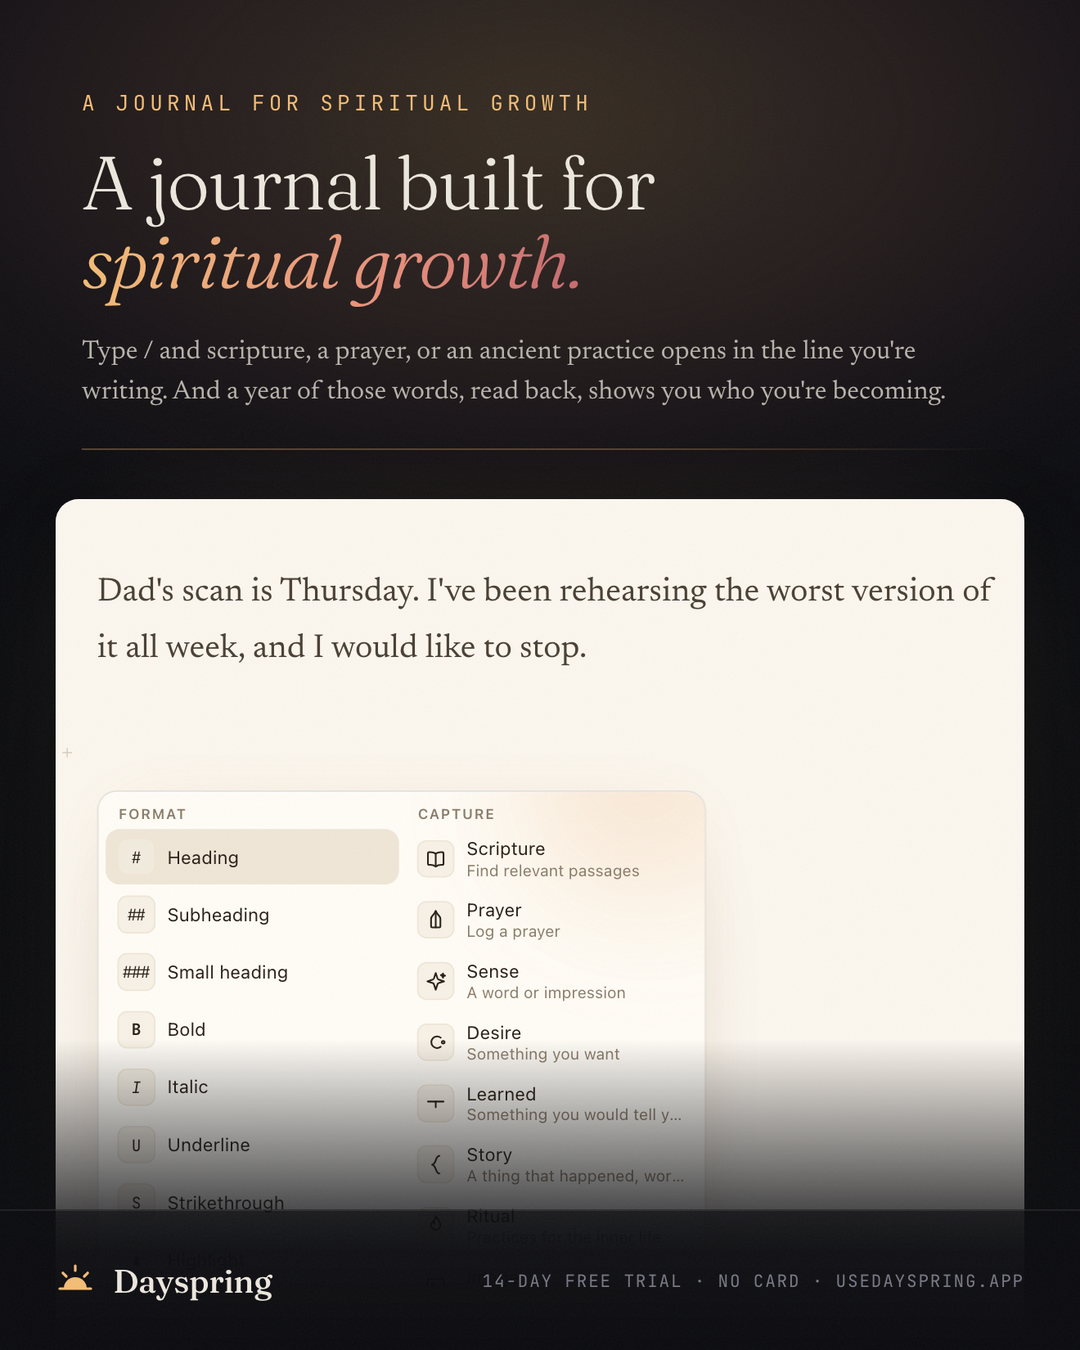
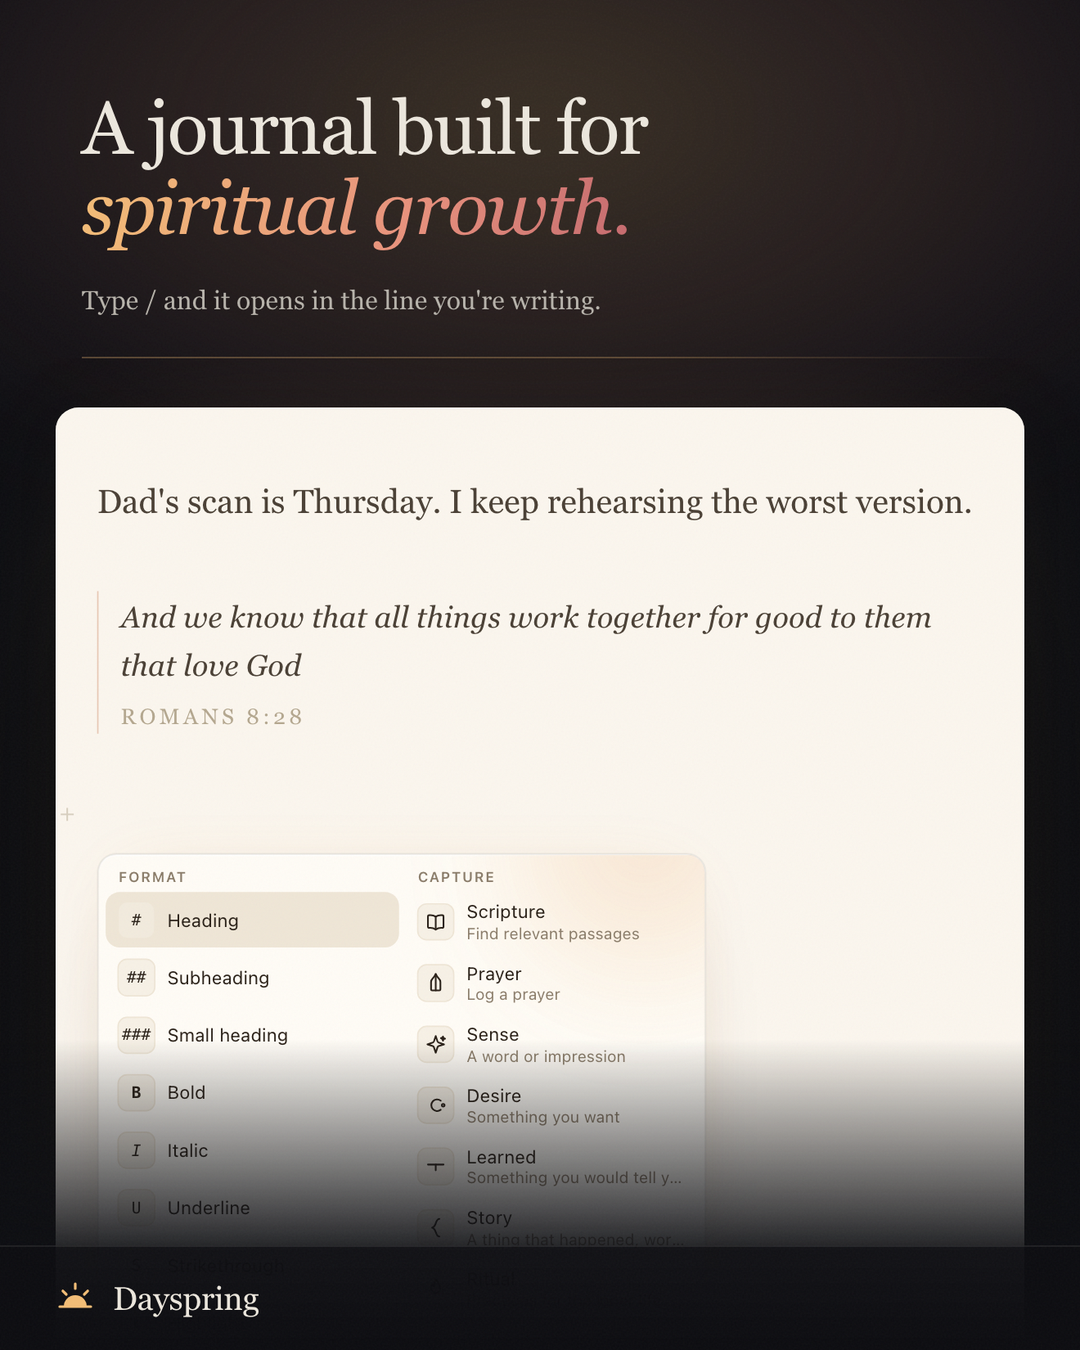
Show the verse the sentence reached for, and say less around it
Three changes, all in the same direction: more picture, fewer words.

**The scripture block is in the frame now.** The palette alone showed the
menu; it never showed what picking something off it does. So the entry
now carries a passage set in the page, word for word, with the caret and
the open menu under it — one frame holding the whole gesture: the line,
the verse it reached for, and the door that put it there. That costs
80pt of window height, which is why the shot is 920 and the sentence
above the block is one line exactly. A word longer and it wraps, leaving
"it." orphaned on a line of its own.

**The eyebrow is gone.** It read "A journal for spiritual growth" over a
headline reading "A journal built for spiritual growth" — the same
sentence twice, in two sizes, stacked. The ads need that line because
their headline is a hook and something has to state the category first.
Here the headline already is the category.

**The offer line is gone.** "14-day free trial · no card ·
usedayspring.app" was three facts in uppercase mono across the foot of
an image whose argument is the picture. Every one of them is a field
Meta gives an ad of its own, rendered in the reader's own UI where they
are read as terms rather than as decoration. They belong in the body
copy. The footer keeps the mark and the name.

What the room bought: the copy column gives up nothing it was using, the
footer drops from 86 to 64, and the window is bigger in every canvas.
[…]

Changed region(s): [[0.0306, 0.0622, 0.9472, 0.4044], [0.0306, 0.5911, 0.9472, 0.9956], [0.0917, 0.4356, 0.9167, 0.4978]]

diff --git a/src/features/flagship/FlagshipFrame.tsx b/src/features/flagship/FlagshipFrame.tsx
@@ -38,14 +38,15 @@ interface Props {
  * Both are above the 767px mobile breakpoint, so both lay out as the desktop
  * three-column shell. A narrower one would silently render the phone app.
  *
- * The HEIGHT is set by the palette, not by taste. The menu is ~380px tall and
- * opens below the caret at y≈368; a 760px window clips its last row against the
- * window's own edge, which reads as a rendering bug rather than as a list that
- * scrolls. 840 clears it with room to spare in both.
+ * The HEIGHT is set by the palette, not by taste. The menu is ~370pt tall and
+ * opens below the caret — and the caret sits under a title, a sentence and a
+ * scripture block, at about y=490. A shorter window clips the menu's last rows
+ * against the window's own edge, which reads as a rendering bug rather than as
+ * a list that scrolls. 920 clears it.
  */
 const WINDOWS = {
-  wide: { width: 1180, height: 840 },
-  tight: { width: 900, height: 840 },
+  wide: { width: 1180, height: 920 },
+  tight: { width: 900, height: 920 },
 } as const
 
 /** Which window each canvas uses. Landscape has the room; nothing else does. */
@@ -80,11 +81,11 @@ const STACKED_GUTTER = 34
  * is left is scaled up until a stranger can read the word "Scripture" in a
  * feed. The Mac window, chrome and lights, is the landscape hero's job.
  *
- * Measured off a 900x840 render, not guessed:
+ * Measured off a 900x920 render, not guessed:
  *   x 120  — clears the rail (0-72) with air, before the writing measure (150).
  *   width  — to 820, past the longest line's right edge (~805). Narrower and
  *            the crop slices words off the end of the sentence.
- *   top    — past the title block, landing just above the prose (230).
+ *   top    — past the title block, landing just above the prose (235).
  */
 const CARD_CROP = { x: 120, y: 186, width: 700 }
 
@@ -92,12 +93,13 @@ const CARD_CROP = { x: 120, y: 186, width: 700 }
  * The device y that must stay clear of the fade — the foot of `Learned`, the
  * fifth row of the Capture column.
  *
- * The palette runs to ~760 and its own list scrolls, so its last rows are
+ * The palette runs to ~910 and its own list scrolls, so its last rows are
  * already cut off inside the app. Demanding all of it costs more scale than the
  * rows are worth; demanding the first five keeps every word that names what
- * this product captures, and lets the rest fade out as a list that continues.
+ * this product captures — and, above them, the scripture block that shows what
+ * picking one does — while the rest fades out as a list that continues.
  */
-const CARD_CLEAR_TO = 648
+const CARD_CLEAR_TO = 795
 
 /** Breathing room between the foot of the crop and the fade, in frame px. */
 const FADE_CLEAR = 26
@@ -166,9 +168,17 @@ export function FlagshipFrame({ cut, canvas, theme, frame }: Props) {
 
   const caption = cut.bare ? null : (
     <header className="flag__caption">
-      <span className="flag__eyebrow">{cut.eyebrow}</span>
+      {/*
+        The break is hard, not balanced. At this size the two halves are a
+        near-exact fit for the column, so auto-wrapping puts the break wherever
+        the last word lands — "A journal built / for spiritual / growth." — and
+        splitting "built for" reads as a typesetting accident. The lead is one
+        line and the accent is the other, always.
+      */}
       <h1 className="flag__headline">
-        {cut.headline.lead} <em>{cut.headline.accent}</em>
+        {cut.headline.lead}
+        <br />
+        <em>{cut.headline.accent}</em>
       </h1>
       <p className="flag__sub">{cut.sub}</p>
       <div className="flag__rule" aria-hidden />
@@ -256,13 +266,22 @@ export function FlagshipFrame({ cut, canvas, theme, frame }: Props) {
       {cut.bare || fit === 'height' ? null : <div className="flag__fade" aria-hidden />}
       <div className="flag__grain" aria-hidden />
 
+      {/*
+        The mark and the name, and nothing else.
+        
+        The bar used to close on "14-day free trial · no card · usedayspring.app"
+        — three facts in a row of uppercase mono, which is a lot of reading to
+        put at the foot of an image whose argument is the picture. Every one of
+        them is a field Meta gives an ad of its own, set in the reader's own UI
+        where they are read as terms rather than as decoration. Here they were
+        only taking the room.
+      */}
       {cut.bare ? null : (
         <footer className="flag__footer">
           <span className="flag__brand">
             <Mark size={24} style={MARK_ACCENT} />
             <span className="flag__wordmark">Dayspring</span>
           </span>
-          <span className="flag__offer">{cut.offer}</span>
         </footer>
       )}
     </div>

diff --git a/src/features/flagship/flagship.ts b/src/features/flagship/flagship.ts
@@ -88,7 +88,7 @@ export interface Canvas {
  */
 export const CANVASES = {
   // The hero. Site header, press kit, Product Hunt, a slide in someone's deck.
-  '16x9': { css: { w: 1280, h: 720 }, out: { w: 2560, h: 1440 }, layout: 'beside', fit: 'height', air: 46, use: 'Site hero, press, decks' },
+  '16x9': { css: { w: 1280, h: 720 }, out: { w: 2560, h: 1440 }, layout: 'beside', fit: 'height', air: 30, use: 'Site hero, press, decks' },
   // Open Graph / Twitter card — every link anyone ever pastes.
   /*
    * Height-fitted, unlike its landscape sibling. Scaled to the WIDTH this card
@@ -109,14 +109,18 @@ export type CanvasId = keyof typeof CANVASES
 export interface Cut {
   /** URL key (`?__preview=flagship&cut=<id>`) and output directory stem. */
   id: string
-  /** Mono, uppercase, read first: what kind of thing this is. Never clever. */
-  eyebrow: string
-  /** Fraunces 300. The accent half renders italic in the dawn gradient. */
+  /**
+   * Fraunces 300. The accent half renders italic in the dawn gradient.
+   *
+   * There is no eyebrow above it. The ads carry one — "A journal for spiritual
+   * growth", stating the category before the hook lands — but here the headline
+   * IS that sentence, so the two together printed the same words twice, in two
+   * sizes, one above the other. On an image whose whole argument is the picture,
+   * the first thing to cut is the line that says nothing new.
+   */
   headline: { lead: string; accent: string }
-  /** Newsreader. The gesture, said plainly, so the picture is explained. */
+  /** Newsreader. One line. The gesture, named — the picture does the rest. */
   sub: string
-  /** The offer, in the footer. Web prices — these land on the web. */
-  offer: string
   /** Palette the app is shown in. */
   theme: ThemeId
   /**
@@ -139,37 +143,25 @@ export interface Cut {
   canvases?: CanvasId[]
 }
 
-/** Same line everywhere: the site H1, the ad eyebrow, the welcome carousel. */
-const CATEGORY = 'A journal for spiritual growth'
-
-const OFFER = '14-day free trial · no card · usedayspring.app'
-
 /**
- * Both halves of the promise, in two sentences — and it has to be both.
+ * One line, because the picture now says the rest.
  *
- * The first sentence explains the picture. The image shows a menu with the word
- * "Scripture" in it, which is not the same as a stranger understanding that the
- * passage lands *in the line, from inside the page*. Naming it is the
- * difference between "a journal with a menu" and the only thing here nobody
- * else does.
- *
- * The second sentence is why anyone would keep doing it, and without it this
- * image sells a nice editor. The product is the years, not the session. Said
- * flatly — "a year of those words, read back" — because the moment it promises
- * what the reader will FIND there, it is making a claim about God's work in a
- * stranger's life, which is the one thing we never do (GUARDRAILS H1).
+ * It used to run to three: the gesture, and then the years, because without the
+ * second half the image sold a nice editor. But the frame now holds the block
+ * as well as the menu — the verse set in the page, where the sentence was — so
+ * a reader can see what `/` does instead of being told. What they cannot see is
+ * that they typed one character to get it. That is the sentence worth keeping,
+ * and the years belong in the ad's own body text, where there is room to say
+ * them properly.
  */
-const GESTURE =
-  "Type / and scripture, a prayer, or an ancient practice opens in the line you're writing. And a year of those words, read back, shows you who you're becoming."
+const GESTURE = "Type / and it opens in the line you're writing."
 
 export const CUTS: Cut[] = [
   {
     id: 'write',
-    eyebrow: CATEGORY,
     // The marketing site's H1, verbatim. See the note at the top of this file.
     headline: { lead: 'A journal built for', accent: 'spiritual growth.' },
     sub: GESTURE,
-    offer: OFFER,
     // Dawn, and deliberately: the app's shipped default is ink, but a hero is
     // read in a feed and on a white site, and the cream page is the thing that
     // does not look like every other dark developer tool. The ink cut is
@@ -178,10 +170,8 @@ export const CUTS: Cut[] = [
   },
   {
     id: 'bare',
-    eyebrow: CATEGORY,
     headline: { lead: 'A journal built for', accent: 'spiritual growth.' },
     sub: GESTURE,
-    offer: OFFER,
     theme: 'dawn',
     bare: true,
     canvases: ['16x9'],

diff --git a/src/features/flagship/scene.tsx b/src/features/flagship/scene.tsx
@@ -31,34 +31,47 @@ import { journalProps } from '@/features/appstore/devices'
 const noop = () => {}
 
 /**
+ * The fixture ids the two block widgets key off. Fabricated, like everything
+ * else here — they only have to be stable and unique within the document.
+ */
+const SCRIPTURE_ID = '2f6c8e14-5a7b-4d92-b3e0-8c1a9f4d7e63'
+
+/**
  * The entry on screen.
  *
- * Written to three constraints, all of which are load-bearing:
+ * Written to four constraints, all of which are load-bearing:
  *
  *  1. **It has to be a person.** Sample copy that reads like sample copy
  *     ("Today I felt grateful") makes the whole picture read as a mock-up.
  *  2. **It cannot be a real entry.** Fabricated, always — the same rule the ad
  *     and listing fixtures keep. No public asset carries anyone's journal.
- *  3. **It ends on an open line, high up the page.** The palette opens beside
- *     the line the writer is on — and when there is not room for it below, it
- *     flips ABOVE and lands on top of the writing. An eight-line entry produces
- *     a picture of a menu covering a page, which argues the opposite of the
- *     case. Three lines keeps the caret near y=330, where the palette drops
- *     underneath and the prose survives in full.
+ *  3. **The scripture block is in it.** The palette alone shows the menu; the
+ *     block shows what the menu DOES — a passage set in the page, word for
+ *     word, where the sentence was. One frame then carries the whole gesture:
+ *     the line, the verse it reached for, and the door that put it there.
+ *  4. **It ends on an open line, with room under it.** The palette opens beside
+ *     the line the writer is on, and when there is not room below it flips
+ *     ABOVE and lands on top of the writing — a picture of a menu covering a
+ *     page, which argues the opposite of the case. This much content keeps the
+ *     caret near y=480, which is why the window is 920pt tall and not less.
  *
- *     The line above the caret also has to be the kind of sentence after which
- *     reaching for scripture is the obvious next move. That is the whole
- *     argument of the image, made in one sentence.
+ *     The sentence is also one line exactly, and that is worth protecting. A
+ *     word over and it wraps, stranding "it." alone on a line of its own — an
+ *     orphan the eye reads as a mistake in an image this size.
  *
- * No scripture or prayer block above it, though they are the palette's most
- * beautiful output: they cost about 150px, which is exactly the room the menu
- * needs, and showing the output above the menu that produces it asks a stranger
- * to work out the order of events. One gesture, mid-air.
+ * No blank line around the fence: `formatScriptureInsert` inserts a block with
+ * one newline before and none after, so a blank line here stacks the editor's
+ * own block margins on an empty paragraph and opens a gap the app never shows.
+ * The single newline AFTER the closing fence is the caret's line, and is the
+ * one thing in this document that is not what the app would have produced.
  */
 const FLAGSHIP_DOC = `Tuesday
 
-Dad's scan is Thursday. I've been rehearsing the worst version of it all week, and I would like to stop.
-
+Dad's scan is Thursday. I keep rehearsing the worst version.
+\`\`\`dayspring-scripture ${SCRIPTURE_ID}
+And we know that all things work together for good to them that love God
+Romans 8:28
+\`\`\`
 `
 
 /** Mirrors GUTTER_REM in editor/lineMenu.ts — the `+` column's centre. */

diff --git a/src/features/flagship/FlagshipFrame.css b/src/features/flagship/FlagshipFrame.css
@@ -19,7 +19,7 @@
  */
 
 .flag {
-  --flag-footer-h: 86px;
+  --flag-footer-h: 64px;
   position: relative;
   overflow: hidden;
   display: flex;
@@ -83,7 +83,7 @@
    the app every time a headline changed by a word. */
 .flag__row .flag__caption {
   flex: none;
-  width: 41%;
+  width: 40%;
   padding: 0 0 0 58px;
 }
 
@@ -129,23 +129,13 @@
 
 /* ── the words ───────────────────────────────────────────────────────────── */
 
-.flag__eyebrow {
-  display: block;
-  font-family: 'JetBrains Mono', ui-monospace, SFMono-Regular, Menlo, monospace;
-  font-size: 13px;
-  font-weight: 500;
-  letter-spacing: 2.6px;
-  text-transform: uppercase;
-  color: #f3bd76;
-}
-
 .flag__headline {
-  margin: 16px 0 0;
+  margin: 0;
   font-family: 'Fraunces', Georgia, 'Times New Roman', serif;
   font-weight: 300;
-  font-size: 58px;
-  line-height: 1.04;
-  letter-spacing: -1.1px;
+  font-size: 52px;
+  line-height: 1.06;
+  letter-spacing: -1px;
   color: #ece7dd;
   text-wrap: balance;
 }
@@ -321,22 +311,6 @@
   color: #ece7dd;
 }
 
-.flag__offer {
-  font-family: 'JetBrains Mono', ui-monospace, SFMono-Regular, Menlo, monospace;
-  font-size: 12.5px;
-  letter-spacing: 1.5px;
-  text-transform: uppercase;
-  color: #7a7986;
-  /*
-   * Never wrap. At 660px the offer wrapped onto a second line and the second
-   * line ran straight through the wordmark — two pieces of type on top of each
-   * other, which is the single worst thing a generated asset can do quietly.
-   * Refusing to wrap turns that failure into an overflow, which is visible on
-   * the contact sheet; the rule below is what stops it happening at all.
-   */
-  white-space: nowrap;
-}
-
 /* A stacked canvas is barely half the width of the hero, and the footer is the
    one row whose content does not scale with it. */
 .flag[data-layout='stacked'] .flag__footer {
@@ -347,12 +321,7 @@
   font-size: 20px;
 }
 
-.flag[data-layout='stacked'] .flag__offer {
-  font-size: 10.5px;
-  letter-spacing: 0.9px;
-}
-
-/* ── per-canvas type ─────────────────────────────────────────────────────── */
+.flag[data-layout='stacked'] /* ── per-canvas type ─────────────────────────────────────────────────────── */
 
 .flag[data-canvas='og'] .flag__headline {
   font-size: 52px;
@@ -383,7 +352,7 @@
    the set, and the footer gets the room Instagram's own UI would otherwise
    sit on top of. */
 .flag[data-canvas='9x16'] {
-  --flag-footer-h: 132px;
+  --flag-footer-h: 104px;
 }
 
 .flag[data-canvas='9x16'] .flag__caption {

diff --git a/assets/flagship/README.md b/assets/flagship/README.md
@@ -1,7 +1,8 @@
 # Flagship
 
-The one picture that carries the whole product: the Mac app, mid-entry, with the
-`/` palette open — the gesture nothing else in the category has.
+The one picture that carries the whole product: the Mac app, mid-entry, with a
+verse set in the page and the `/` palette open under it — the gesture nothing
+else in the category has, and what it puts there.
 
 Everything else we make is a *detail*. A listing shot is one surface at phone
 width; an ad is a fragment under a headline. That is the right shape for someone
@@ -50,3 +51,8 @@ Nothing throws. It is obvious on the sheet.
 and then lands on usedayspring.app should meet the sentence they were promised.
 It lives in `src/features/flagship/flagship.ts`, with the ad and App Store
 registries it deliberately echoes.
+
+**There is no offer line and no eyebrow.** The trial, the price and the domain
+are fields Meta gives an ad of its own, set in the reader's own UI where they
+read as terms rather than as decoration — put them in the body copy, not on the
+picture. The eyebrow went because it printed the headline twice.
